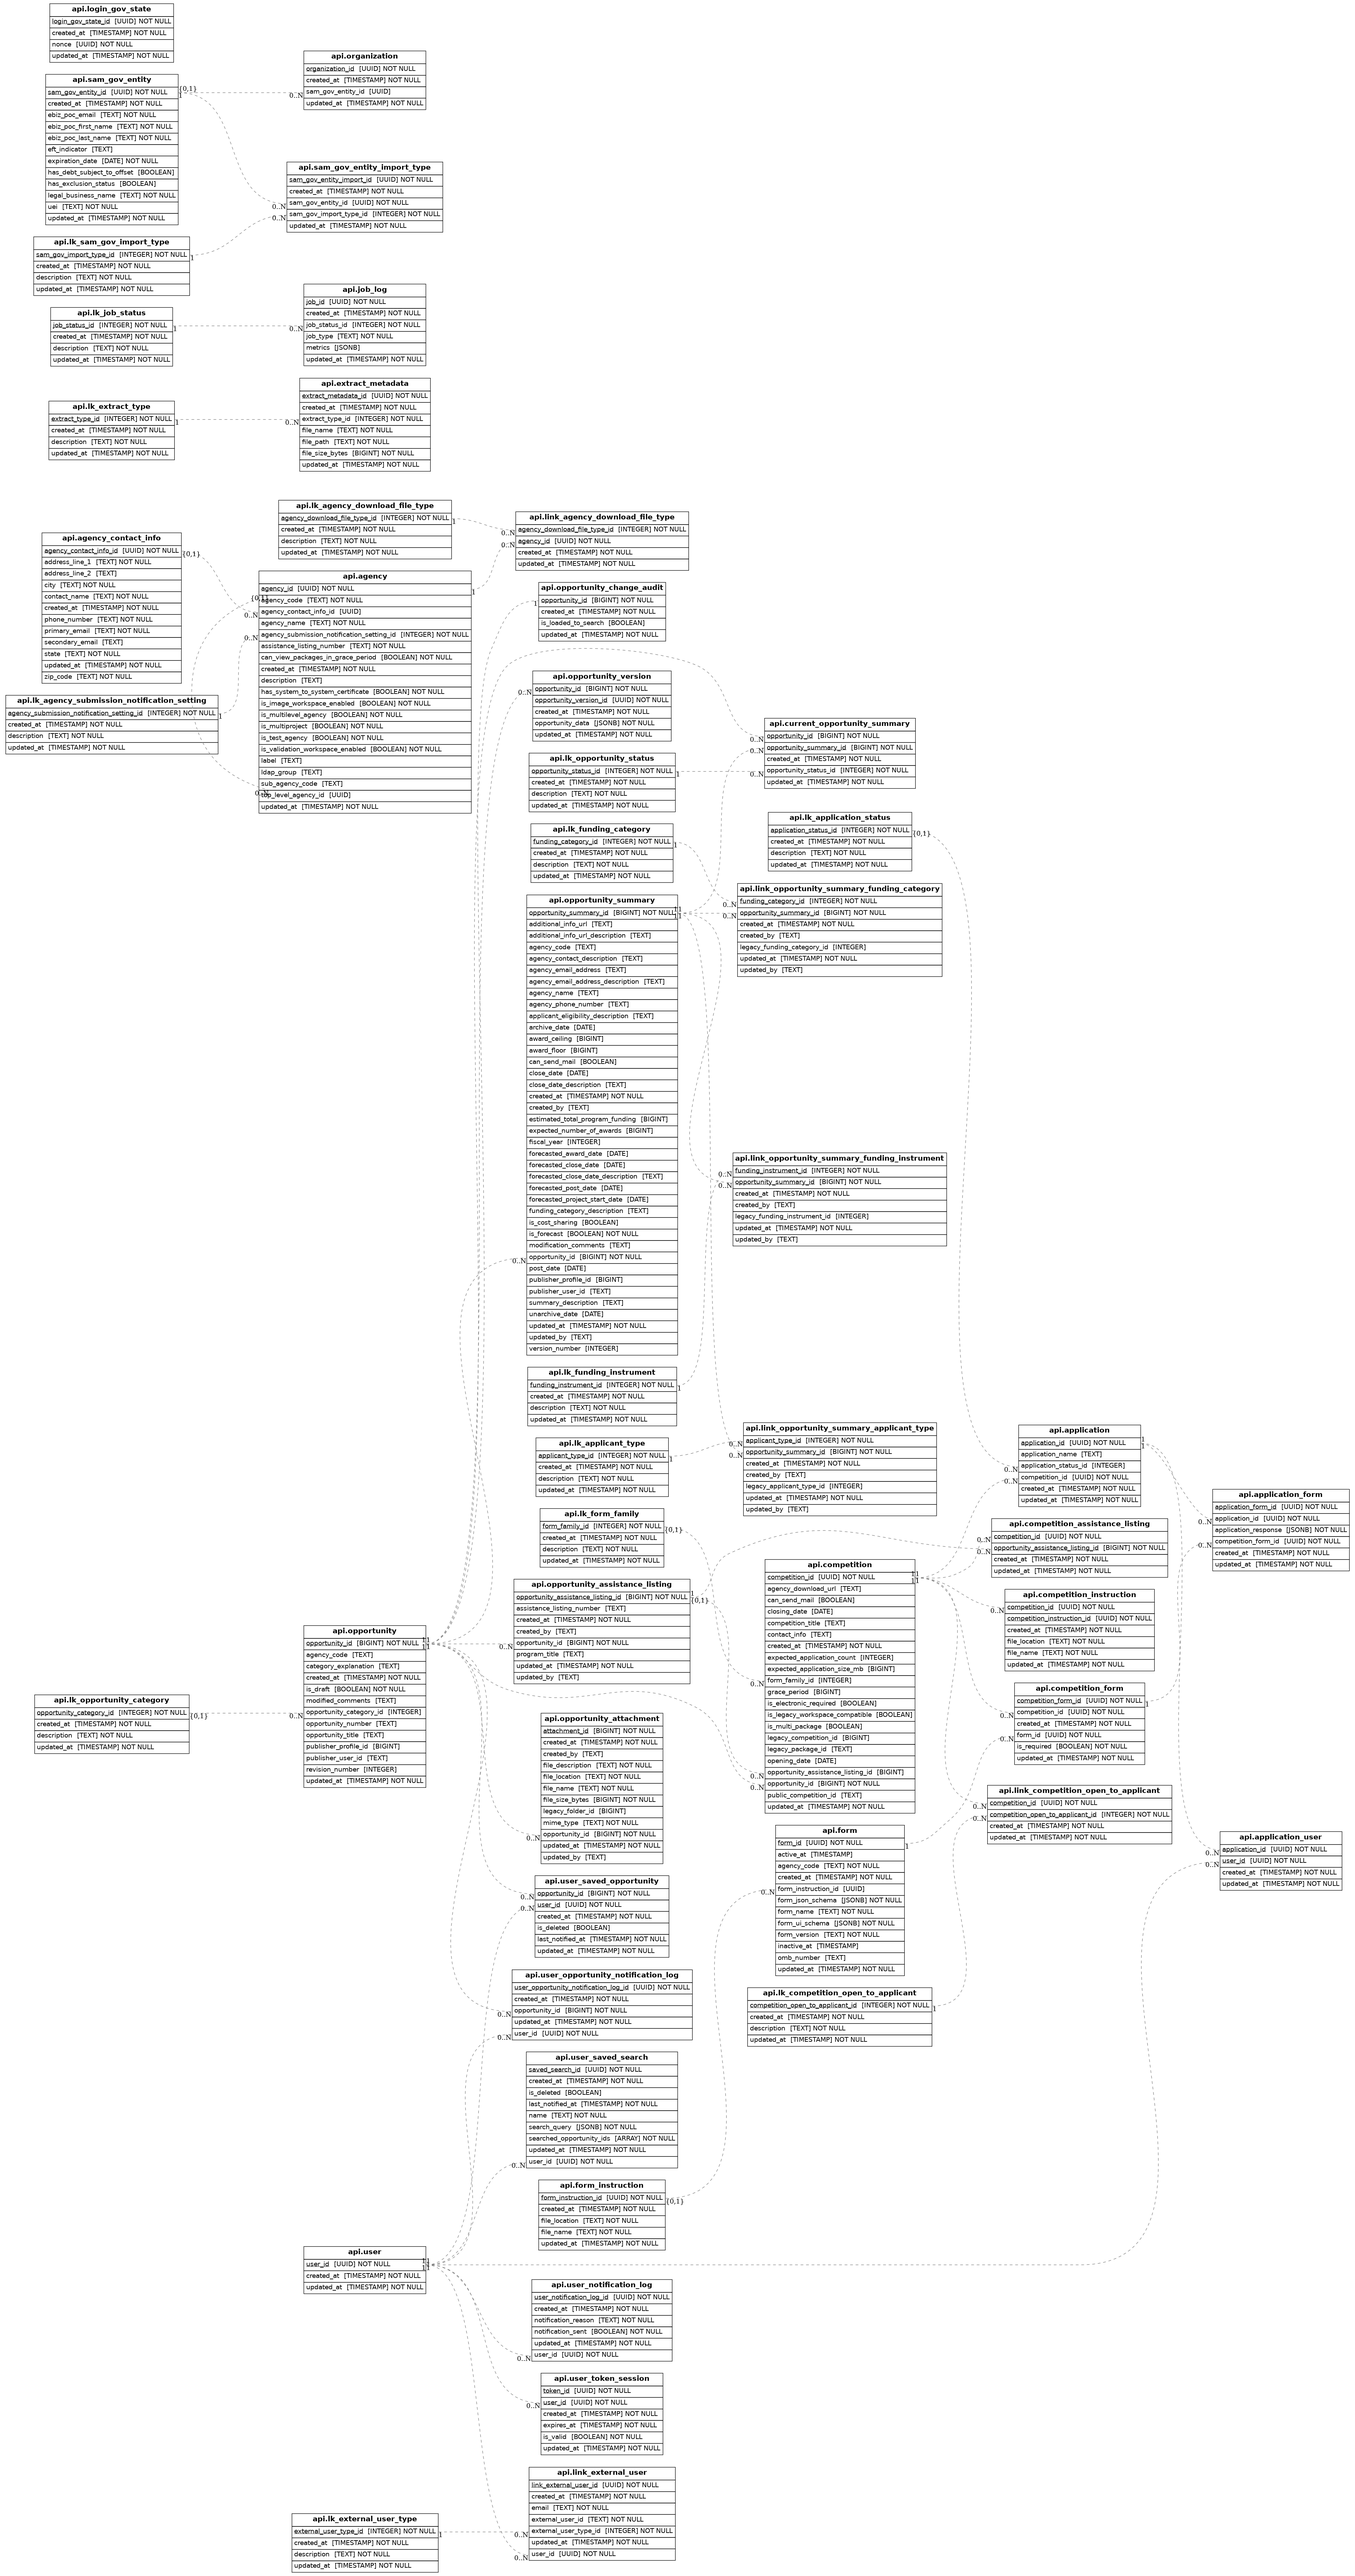
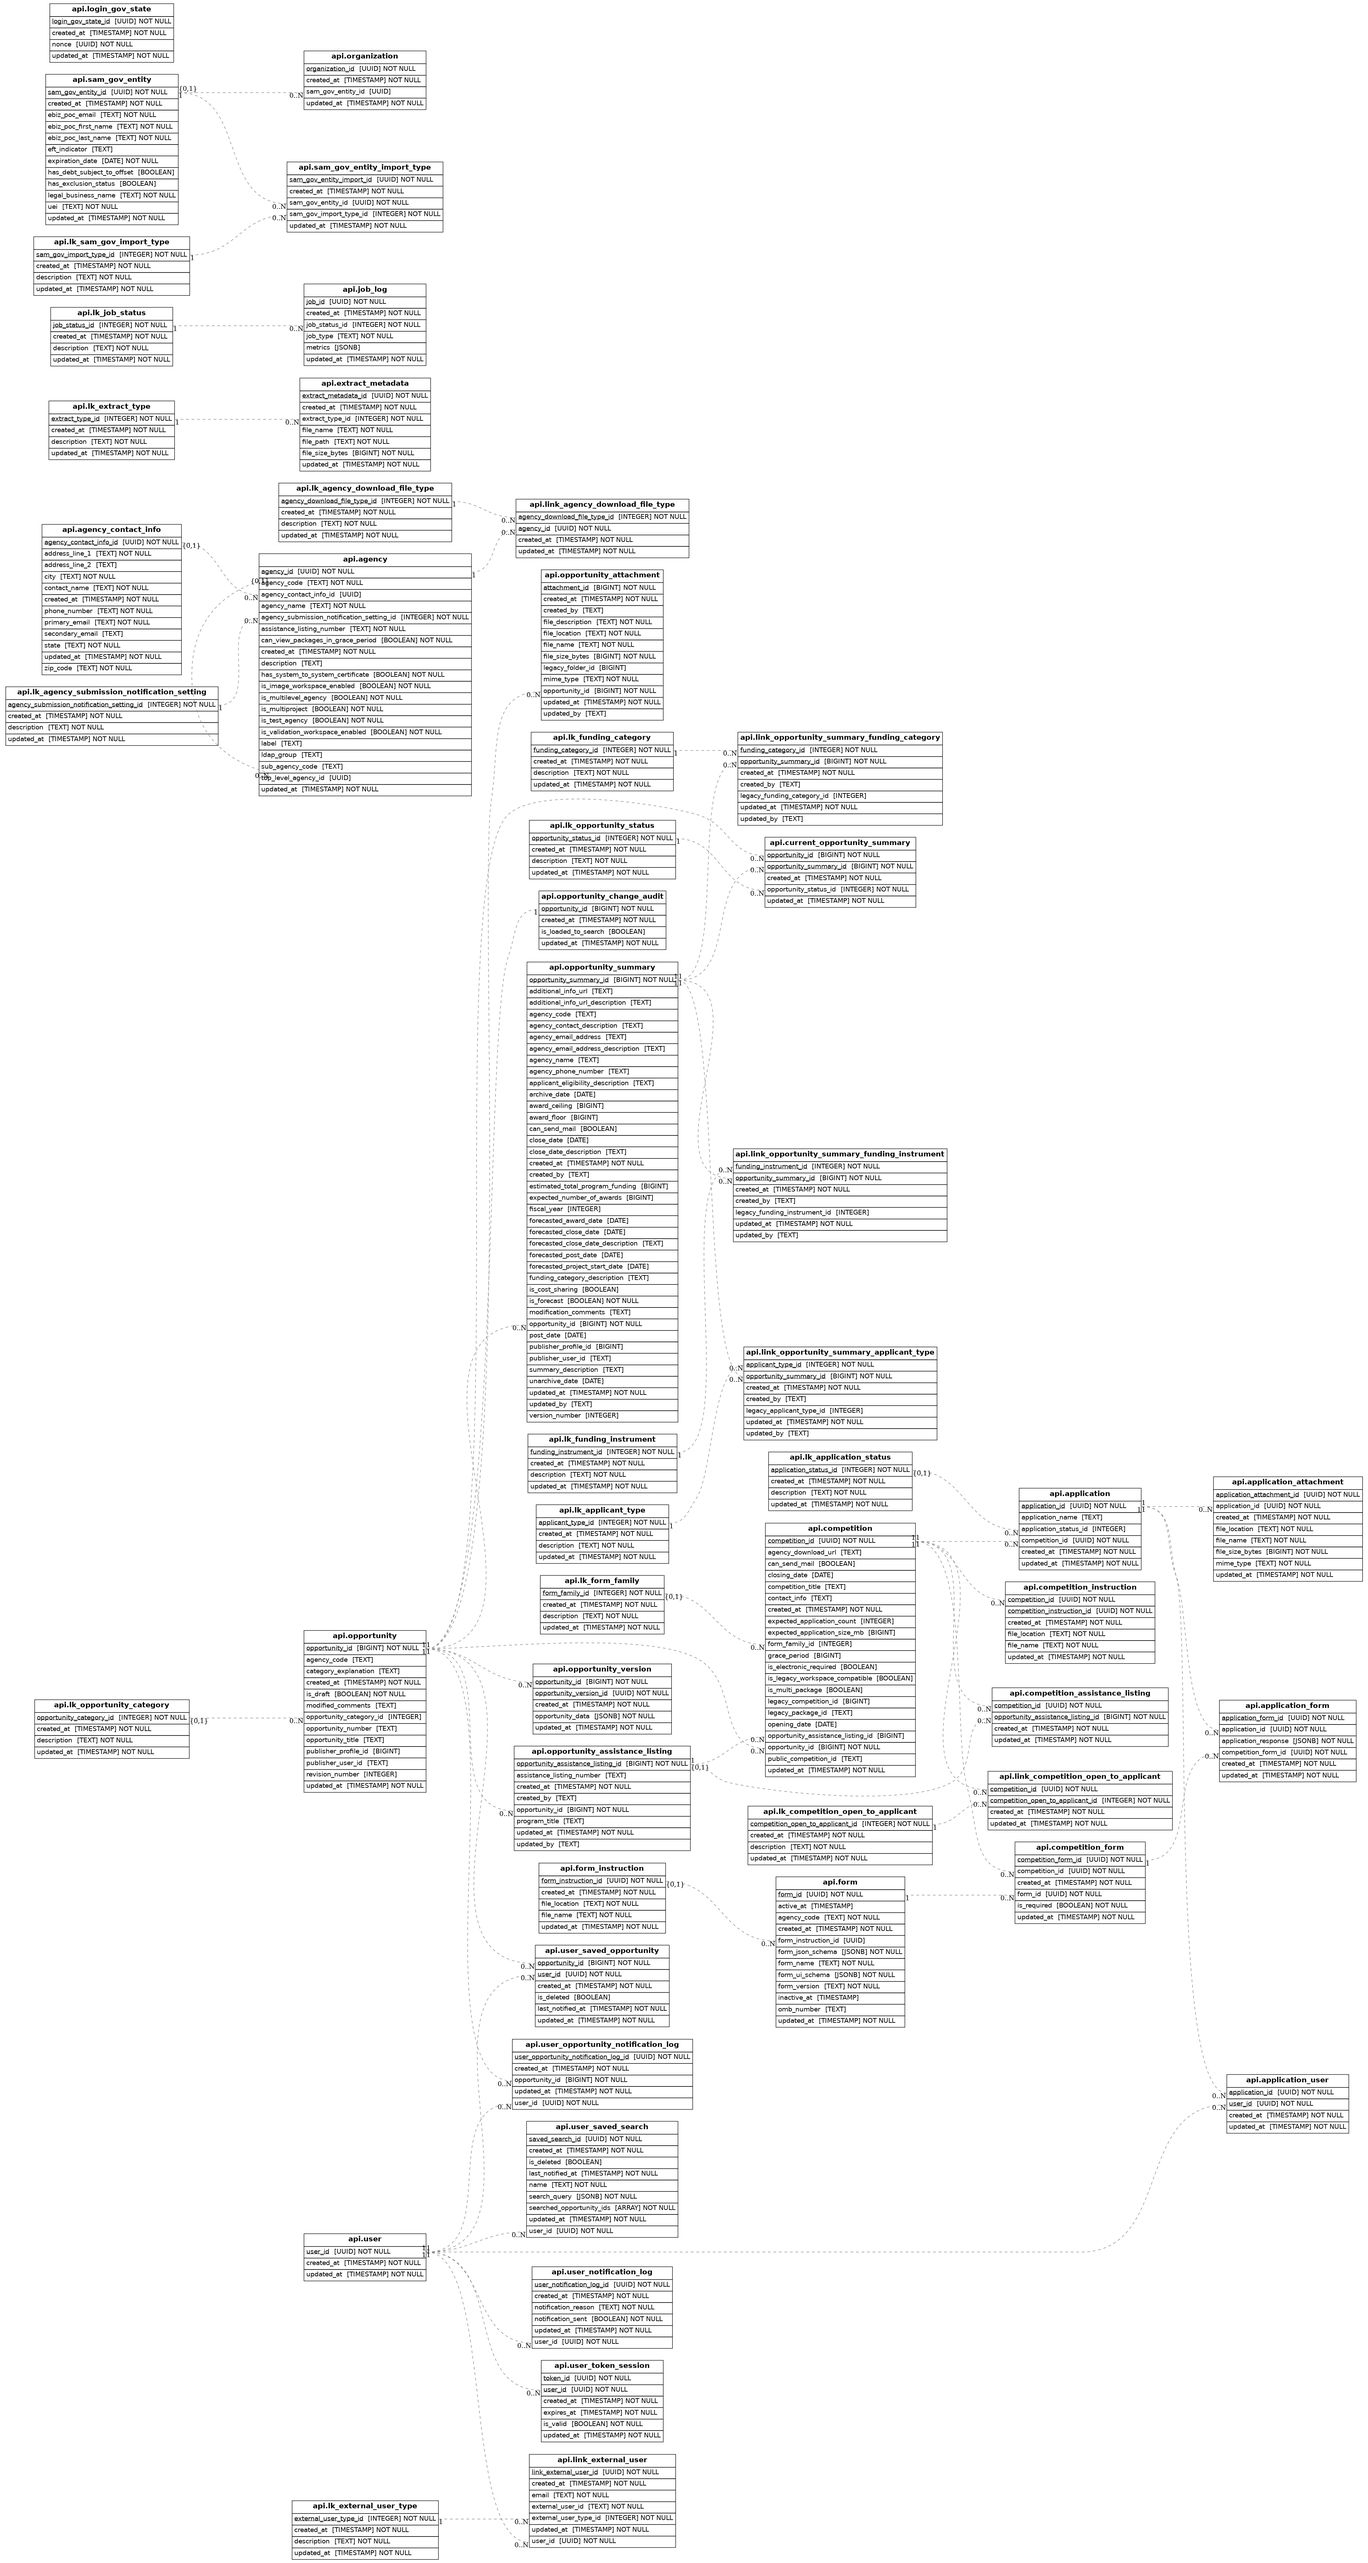
[Issue #5077] Add application attachment table (#5175)
## Summary

Fixes #5077

## Changes proposed

Add an application attachment DB table

## Context for reviewers
This will be where we store the information about an application
attachment

## Validation steps
Verified the factory I added works by doing `make console` and then
running `f.ApplicationAttachmentFactory()` to use the factory. It
creates the file in s3 as we expect.

---------

diff --git a/api/tests/src/db/models/factories.py b/api/tests/src/db/models/factories.py
@@ -1258,6 +1258,56 @@ class ApplicationFormFactory(BaseFactory):
     )
 
 
+class ApplicationAttachmentFactory(BaseFactory):
+    class Meta:
+        model = competition_models.ApplicationAttachment
+
+    application_attachment_id = Generators.UuidObj
+
+    application_id = factory.LazyAttribute(lambda a: a.application.application_id)
+    application = factory.SubFactory(ApplicationFactory)
+
+    mime_type = factory.Faker("mime_type")
+    file_name = factory.Faker("file_name", extension="text")
+
+    file_size_bytes = factory.Faker("random_int", min=1, max=1000000)
+
+    # Whatever you pass in for file_contents will end up in the file, but
+    # not included anywhere on the model itself
+    file_contents = factory.Faker("sentence")
+    # NOTE: If you want the file to properly get written to s3 for tests/locally
+    # make sure the bucket actually exists
+    file_location = factory.LazyAttribute(
+        lambda a: f"s3://local-mock-public-bucket/applications/{a.application_id}/attachments/{fake.uuid4()}/{a.file_name}"
+    )
+
+    @classmethod
+    def _build(cls, model_class, *args, **kwargs):
+        kwargs.pop("file_contents")  # Don't file for build strategy
+        super()._build(model_class, *args, **kwargs)
+
+    @classmethod
+    def _create(cls, model_class, *args, **kwargs):
+        file_contents = kwargs.pop("file_contents")
+        attachment = super()._create(model_class, *args, **kwargs)
+
+        try:
+            with file_util.open_stream(attachment.file_location, "w") as my_file:
+                my_file.write(file_contents)
+        except Exception as e:
+            raise Exception(
+                f"""There was an error writing your attachment to {attachment.file_location}.
+
+                    Does this location exist? If you are running in unit tests, make sure
+                    `enable_factory_create` is pulled in as a fixture to your test.
+
+                    If you are running locally outside of unit tests, make sure that `make init-localstack` has run.
+                    """
+            ) from e
+
+        return attachment
+
+
 ###################
 # Agency Factories
 ###################

diff --git a/api/src/db/migrations/versions/2025_05_27_application_attachment_table.py b/api/src/db/migrations/versions/2025_05_27_application_attachment_table.py
@@ -1,0 +1,57 @@
+"""application attachment table
+
+Revision ID: 071e2b0d79fe
+Revises: e7f08ad1337d
+Create Date: 2025-05-27 15:10:11.890623
+
+"""
+
+import sqlalchemy as sa
+from alembic import op
+
+# revision identifiers, used by Alembic.
+revision = "071e2b0d79fe"
+down_revision = "e7f08ad1337d"
+branch_labels = None
+depends_on = None
+
+
+def upgrade():
+    # ### commands auto generated by Alembic - please adjust! ###
+    op.create_table(
+        "application_attachment",
+        sa.Column("application_attachment_id", sa.UUID(), nullable=False),
+        sa.Column("application_id", sa.UUID(), nullable=False),
+        sa.Column("file_location", sa.Text(), nullable=False),
+        sa.Column("file_name", sa.Text(), nullable=False),
+        sa.Column("mime_type", sa.Text(), nullable=False),
+        sa.Column("file_size_bytes", sa.BigInteger(), nullable=False),
+        sa.Column(
+            "created_at",
+            sa.TIMESTAMP(timezone=True),
+            server_default=sa.text("now()"),
+            nullable=False,
+        ),
+        sa.Column(
+            "updated_at",
+            sa.TIMESTAMP(timezone=True),
+            server_default=sa.text("now()"),
+            nullable=False,
+        ),
+        sa.ForeignKeyConstraint(
+            ["application_id"],
+            ["api.application.application_id"],
+            name=op.f("application_attachment_application_id_application_fkey"),
+        ),
+        sa.PrimaryKeyConstraint(
+            "application_attachment_id", name=op.f("application_attachment_pkey")
+        ),
+        schema="api",
+    )
+    # ### end Alembic commands ###
+
+
+def downgrade():
+    # ### commands auto generated by Alembic - please adjust! ###
+    op.drop_table("application_attachment", schema="api")
+    # ### end Alembic commands ###

diff --git a/api/src/db/models/competition_models.py b/api/src/db/models/competition_models.py
@@ -235,6 +235,13 @@ class Application(ApiSchemaTable, TimestampMixin):
         "ApplicationUser", back_populates="application", uselist=True, cascade="all, delete-orphan"
     )
 
+    application_attachments: Mapped[list["ApplicationAttachment"]] = relationship(
+        "ApplicationAttachment",
+        uselist=True,
+        back_populates="application",
+        cascade="all, delete-orphan",
+    )
+
     @property
     def users(self) -> list["User"]:
         """Return the list of User objects associated with this application"""
@@ -267,6 +274,22 @@ class ApplicationForm(ApiSchemaTable, TimestampMixin):
     def form_id(self) -> uuid.UUID:
         """Property function for slightly easier access to the form ID"""
         return self.competition_form.form_id
+
+
+class ApplicationAttachment(ApiSchemaTable, TimestampMixin):
+    __tablename__ = "application_attachment"
+
+    application_attachment_id: Mapped[uuid.UUID] = mapped_column(
+        UUID, primary_key=True, default=uuid.uuid4
+    )
+
+    application_id: Mapped[uuid.UUID] = mapped_column(UUID, ForeignKey(Application.application_id))
+    application: Mapped[Application] = relationship(Application)
+
+    file_location: Mapped[str]
+    file_name: Mapped[str]
+    mime_type: Mapped[str]
+    file_size_bytes: Mapped[int] = mapped_column(BigInteger)
 
 
 class LinkCompetitionOpenToApplicant(ApiSchemaTable, TimestampMixin):
